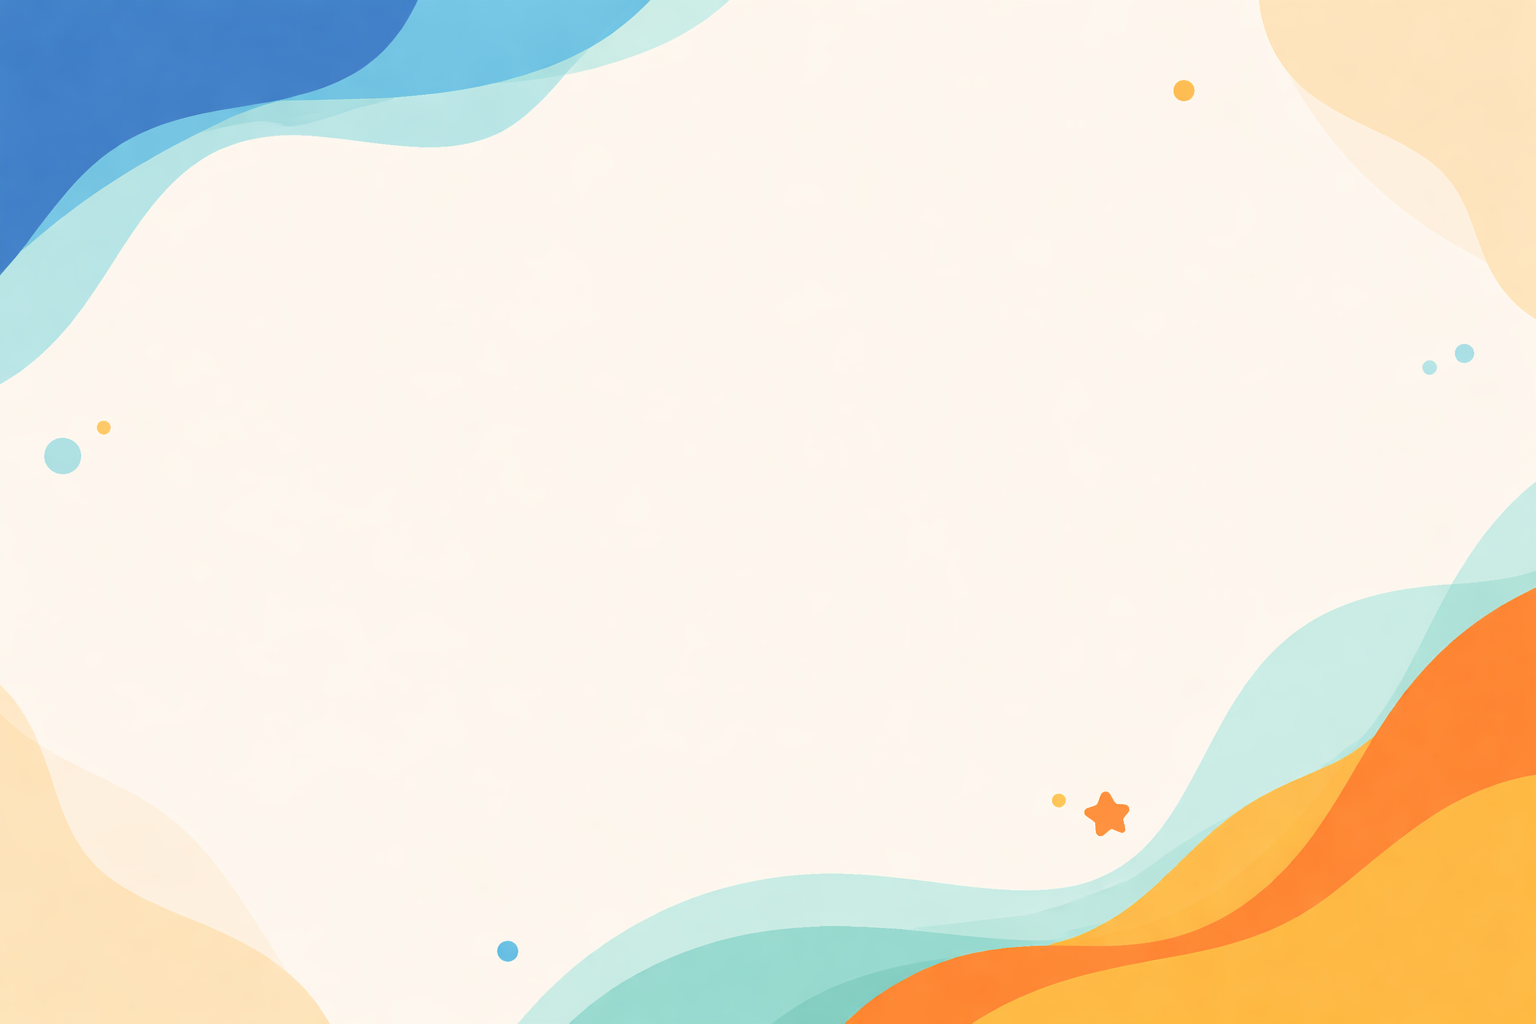
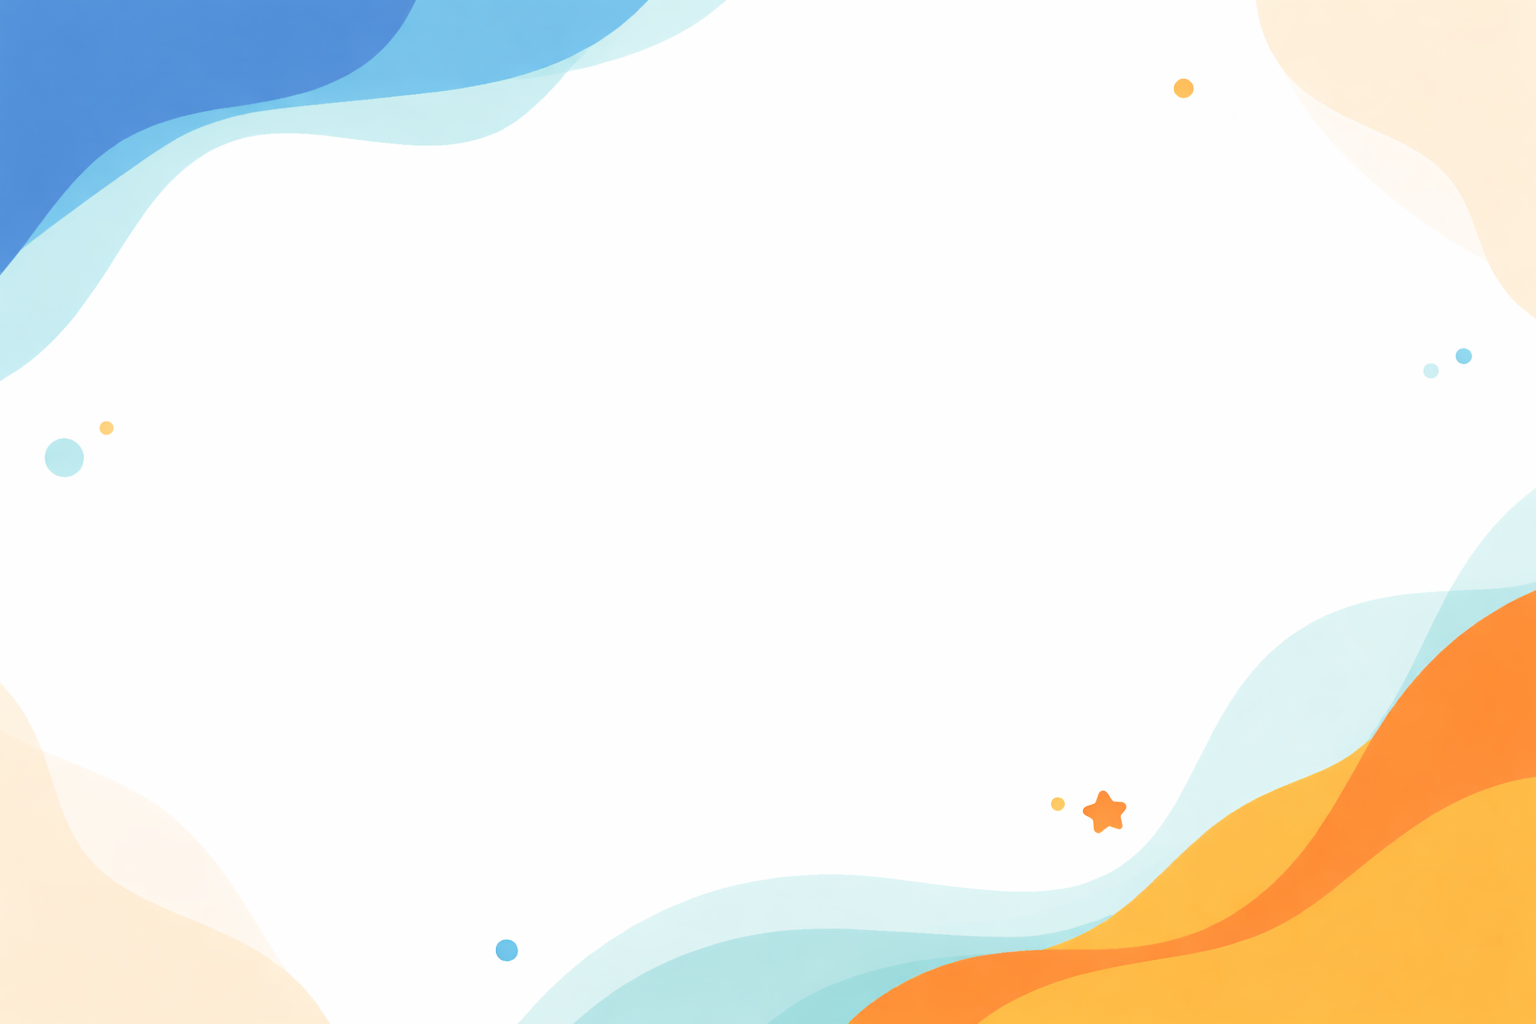
Updated blog index

diff --git a/app/pages/blogs/index.vue b/app/pages/blogs/index.vue
@@ -1,10 +1,11 @@
 <script setup lang="ts">
 </script>
 <template>
-  <div class="w-screen min-h-screen bg-[url(/blogIndexBG.png)] bg-no-repeat bg-contain">
+  <div class="w-screen min-h-screen flex flex-col overflow-hidden">
     <ClientOnly>
       <Navbar />
     </ClientOnly>
+    <div class="w-screen h-screen bg-[url(/blogIndexBG.png)] bg-no-repeat bg-cover fixed -z-10"></div>
     <div id="blogsContainer">
       <NewsHero />
       <NewsHeader />
